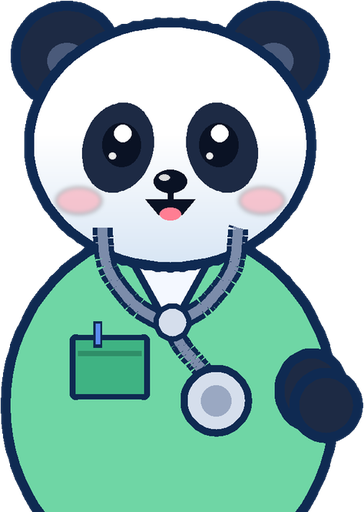
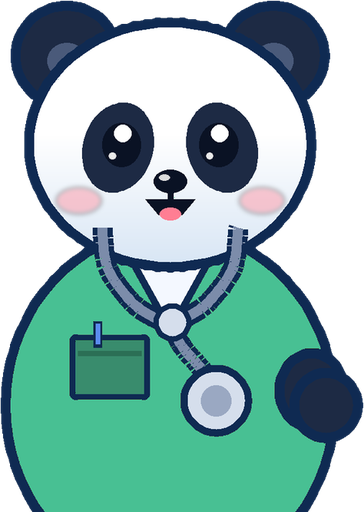
Scrubs: one seafoam (#4DBB92) in the art and the UI, navy text on it (45.11)
The panda's scrubs are recolored from the light mint to a slightly deeper seafoam everywhere they appear: the launcher foreground and legacy icons, the Play Store icon, the splash and title-bar mascot, and the README art (regenerated). The UI "selected" color is the same seafoam, so the palette has one, with navy text on it because white does not pass contrast; the unused BrandMint is gone. Not built by Claude; the icons and screens need a look on a device.

Claude-Session: https://claude.ai/code/session_01CNPaFi8RhuG2KTCVfXH75t

Changed region(s): [[0.0302, 0.5, 0.9066, 1.0]]

diff --git a/app/src/main/java/io/github/genesjc/opensourcepanda/ui/theme/Color.kt b/app/src/main/java/io/github/genesjc/opensourcepanda/ui/theme/Color.kt
@@ -30,8 +30,7 @@ val BrandSun = Color(0xFFFFD94D) // the branch glyph
 val BrandNavy = Color(0xFF0F2A52) // outlines and text on the sun and mint accents
 val BrandBlue = Color(0xFF1F4B8E) // a lighter step of the navy, the blue that sits well beside the orange
 val BrandBlueContainerLight = Color(0xFFD8E4F5)
-val BrandMint = Color(0xFF6FD6A5) // the panda's scrubs as drawn, light: for tints and the artwork, not for text
-val BrandSeafoam = Color(0xFF187A5E) // the scrubs' color deepened for the UI: white text on it passes contrast
+val BrandSeafoam = Color(0xFF4DBB92) // the panda's scrubs; navy text on it passes contrast, white does not
 val BrandSeafoamContainerLight = Color(0xFFDDF5EA)
 val OnBrandSeafoamContainerLight = Color(0xFF0B3B2D)
 val BrandOutlineBlack = Color(0xFF08080C) // the glyph's outline on the orange

diff --git a/app/src/main/java/io/github/genesjc/opensourcepanda/ui/theme/ModeColorSchemes.kt b/app/src/main/java/io/github/genesjc/opensourcepanda/ui/theme/ModeColorSchemes.kt
@@ -9,7 +9,7 @@ private val GfiColorScheme = lightColorScheme(
     onPrimary = ModeGfiOnPrimary,
     secondary = ModeGfiPrimary,
     tertiary = BrandSeafoam,
-    onTertiary = SurfaceLight,
+    onTertiary = BrandNavy,
     tertiaryContainer = BrandSeafoamContainerLight,
     onTertiaryContainer = OnBrandSeafoamContainerLight,
     secondaryContainer = ModeGfiSecondaryContainer,
@@ -23,7 +23,7 @@ private val HwColorScheme = lightColorScheme(
     onPrimary = ModeHwOnPrimary,
     secondary = ModeHwPrimary,
     tertiary = BrandSeafoam,
-    onTertiary = SurfaceLight,
+    onTertiary = BrandNavy,
     tertiaryContainer = BrandSeafoamContainerLight,
     onTertiaryContainer = OnBrandSeafoamContainerLight,
     secondaryContainer = ModeHwSecondaryContainer,

diff --git a/app/src/main/java/io/github/genesjc/opensourcepanda/ui/theme/Theme.kt b/app/src/main/java/io/github/genesjc/opensourcepanda/ui/theme/Theme.kt
@@ -29,7 +29,7 @@ private val LightColorScheme = lightColorScheme(
     onPrimary = SurfaceLight,
     secondary = BrandOrangeMid,
     tertiary = BrandSeafoam,
-    onTertiary = SurfaceLight,
+    onTertiary = BrandNavy,
     tertiaryContainer = BrandSeafoamContainerLight,
     onTertiaryContainer = OnBrandSeafoamContainerLight,
     secondaryContainer = BrandContainerLight,

diff --git a/docs/images/make_art.py b/docs/images/make_art.py
@@ -74,7 +74,7 @@ def issue_card(w, h, title_w, chips, comments):
 
 # The launcher icon's palette, so the banner matches the icon (the glyph is the one behind the panda in the icon).
 ORANGE_TOP, ORANGE_MID, ORANGE_BOTTOM = (0xCF, 0x66, 0x57), (0xBC, 0x52, 0x4A), (0xA5, 0x40, 0x3E)
-SUN, ICON_NAVY, MINT = (0xFF, 0xD9, 0x4D), (0x0F, 0x2A, 0x52), (0x6F, 0xD6, 0xA5)
+SUN, ICON_NAVY, MINT = (0xFF, 0xD9, 0x4D), (0x0F, 0x2A, 0x52), (0x4D, 0xBB, 0x92)
 GLYPH_TRUNK = [(76.57, 79.80), (40.43, 28.20)]
 GLYPH_BRANCH = [(51.62, 44.17), (54.51, 46.17), (57.20, 47.97), (60.01, 49.60), (62.61, 50.65), (65.25, 51.39),
                 (67.92, 51.86), (70.53, 52.05), (73.03, 51.89), (75.68, 51.23), (78.18, 50.34), (80.86, 49.33)]

diff --git a/docs/design-notes.md b/docs/design-notes.md
@@ -92,7 +92,7 @@ The decisions and trade-offs behind the code, and the reasons for them, which ar
 
 ## Color palette
 
-- **Colors have jobs.** The orange, sun yellow and navy are the app's identity (`Brand*` in `Color.kt`), from the launcher icon: the splash, the title bar, the artwork. Two colors stand for the issue mode, which tells you what you are looking at: the blue for beginner-friendly issues and the orange for projects asking for help. The seafoam, the panda's scrubs deepened so white text passes contrast (`BrandSeafoam`, with the light `BrandMint` kept for tints and artwork), stands for what you have selected or saved: the chosen language chip and a saved bookmark's star. It is the theme's `tertiary` role, so a screen asks for "the selected color" and does not name a hue. A new screen takes a job for each color and does not add a color.
+- **Colors have jobs.** The orange, sun yellow and navy are the app's identity (`Brand*` in `Color.kt`), from the launcher icon: the splash, the title bar, the artwork. Two colors stand for the issue mode, which tells you what you are looking at: the blue for beginner-friendly issues and the orange for projects asking for help. The seafoam, the panda's scrubs (`BrandSeafoam`, the same color in the artwork), stands for what you have selected or saved: the chosen language chip and a saved bookmark's star, both with navy text, since white does not pass contrast on it. It is the theme's `tertiary` role, so a screen asks for "the selected color" and does not name a hue. A new screen takes a job for each color and does not add a color.
 - **The modes are a blue and an orange.** Beginner-friendly issues use the brand blue (a lighter step of the navy in the panda's outline) and projects asking for help the brand orange, each a strong primary (white text on it passes contrast) with a very light tint of the same hue. Two shades of one hue were tried first and read as too close together, and the purple and green they replaced did not belong to the icon's palette. The baseline scheme (no mode chosen) uses the orange. Every color is a named constant in `Color.kt`; screens do not type hex values.
 - **Dark mode is tabled.** `OpenSourcePandaTheme` still has a `darkTheme` parameter and a dark scheme, but it is hardcoded to false and the mode schemes are light-only. There is no setting for it, so nothing is hidden; a dark mode would need a dark scheme per mode first.
 
